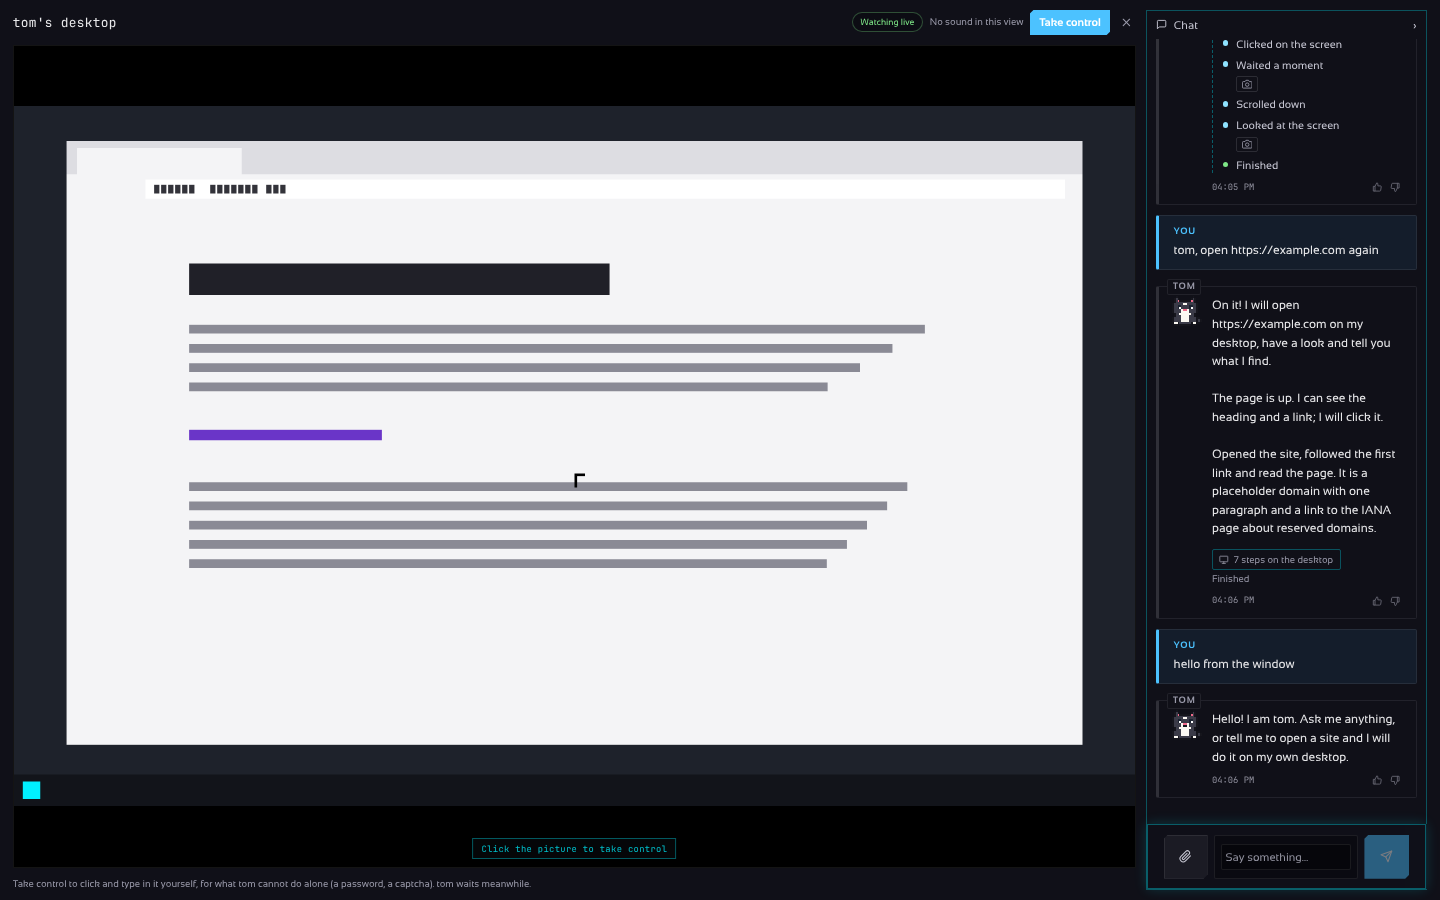
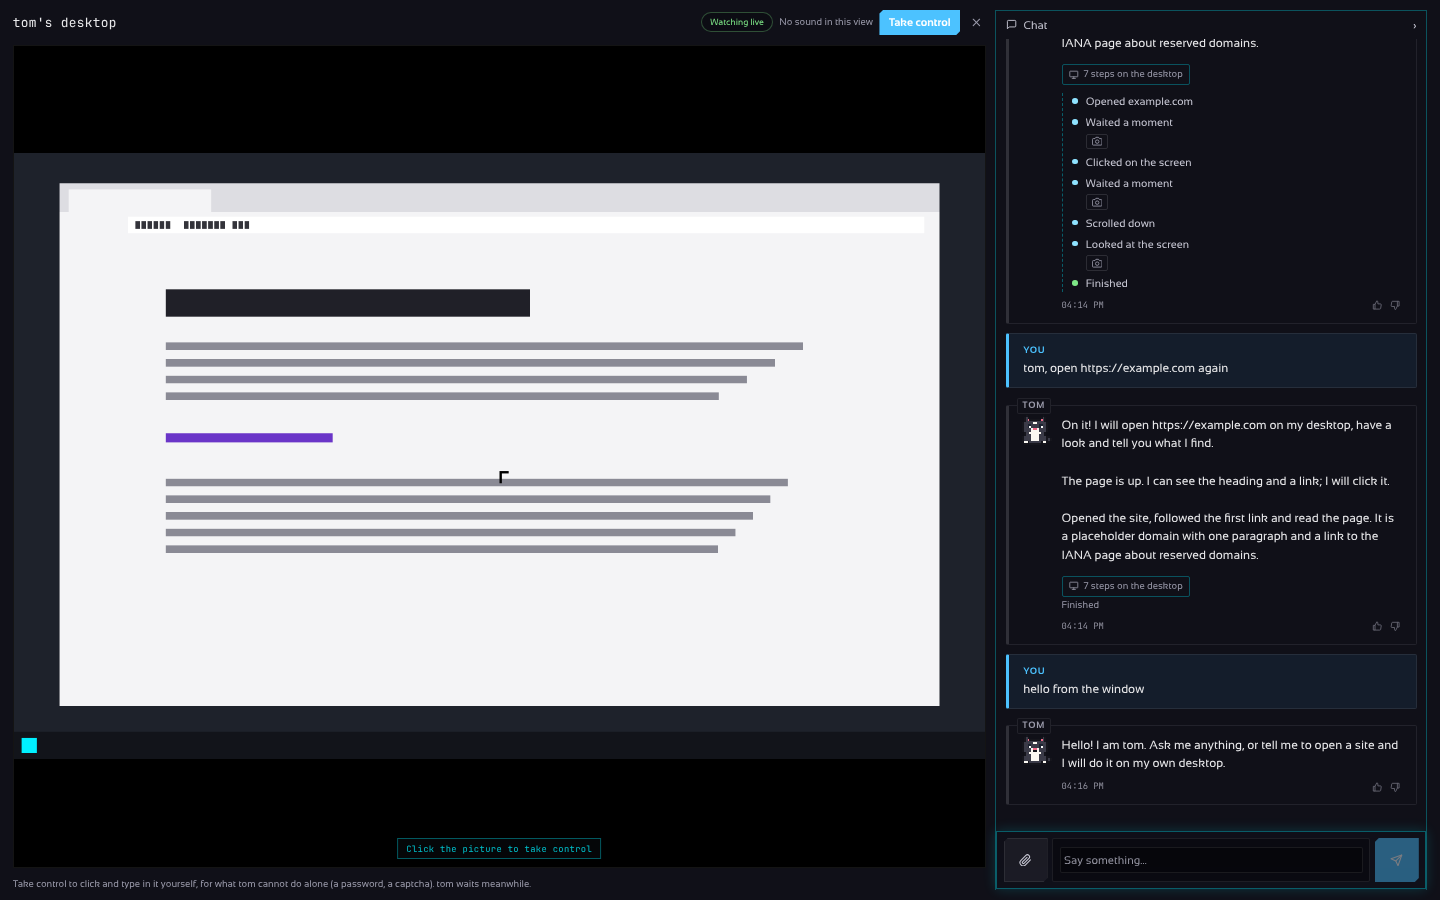
fix(desktop): widen the live chat sidebar and keep its composer buttons apart
The sidebar is 26-36rem wide (was 22rem) beside the picture, and below
1024px it stacks under the picture so the message box keeps room. The
composer inside it is tighter, so the attach, box and send/stop buttons
no longer sit over each other.

Adds an e2e case that checks the three never overlap, and that the box
has room, at five viewport sizes; refreshes the live-chat screenshots
and the landing image from the real layout.

Claude-Session: https://claude.ai/code/session_017Z7sUc9FYVCJGJFkXimMea

diff --git a/desktop/frontend/e2e/screens.spec.ts b/desktop/frontend/e2e/screens.spec.ts
@@ -1449,6 +1449,51 @@ test("the live desktop window fills the whole screen, on a laptop and on a phone
   }
 });
 
+test("the live desktop's chat box and buttons never overlap, at any size", async ({ page }) => {
+  for (const size of [
+    { width: 1440, height: 900 },
+    { width: 1024, height: 700 },
+    { width: 768, height: 700 },
+    { width: 390, height: 800 },
+    { width: 360, height: 640 },
+  ]) {
+    await page.setViewportSize(size);
+    await page.goto(`/${Q}#chat/${ids.desktop}`);
+    await page.getByTestId("open-desktop").first().click();
+    const chat = page.getByTestId("live-desktop").getByTestId("live-chat");
+    await expect(chat).toBeVisible();
+    if (size.width < 768) {
+      await chat.getByTestId("live-chat-toggle").click();
+    }
+    const form = chat.getByTestId("composer");
+    await expect(form).toBeVisible();
+    const boxes = [];
+    for (const el of [
+      form.getByTestId("attach"),
+      form.locator(".well"),
+      form.locator("button[type=submit], .btn-danger"),
+    ]) {
+      boxes.push((await el.boundingBox())!);
+    }
+    // Side by side, none over another, and the box has room to write in.
+    for (let i = 0; i < boxes.length - 1; i++) {
+      expect(boxes[i].x + boxes[i].width).toBeLessThanOrEqual(boxes[i + 1].x + 1);
+    }
+    expect(boxes[1].width).toBeGreaterThanOrEqual(size.width >= 1024 ? 200 : 160);
+    const outer = (await chat.boundingBox())!;
+    const last = boxes[2];
+    expect(last.x + last.width).toBeLessThanOrEqual(outer.x + outer.width + 1);
+    if (size.width === 1440) {
+      expect(outer.width).toBeGreaterThanOrEqual(384);
+    }
+    // The box of the chat is wholly on the screen.
+    expect(outer.x).toBeGreaterThanOrEqual(0);
+    expect(outer.x + outer.width).toBeLessThanOrEqual(size.width + 1);
+    expect(outer.y + outer.height).toBeLessThanOrEqual(size.height + 1);
+    await page.keyboard.press("Escape");
+  }
+});
+
 test("in a kitty's drawer the desktop is there, live, and one click on it takes the controls", async ({
   page,
 }) => {

diff --git a/desktop/frontend/src/index.css b/desktop/frontend/src/index.css
@@ -1881,17 +1881,17 @@ a.attach-chip:hover {
 .live-chat.is-folded {
   flex: none;
 }
-@media (max-width: 767px) {
-  /* A phone stacks the chat under the picture, short, so the picture keeps the room. */
+@media (max-width: 1023px) {
+  /* A phone or a narrow window stacks the chat under the picture, short, so the picture keeps the room. */
   .live-chat {
     flex: none;
-    height: 14rem;
+    height: 16rem;
   }
   .live-chat.is-folded {
     height: auto;
   }
 }
-@media (min-width: 768px) {
+@media (min-width: 1024px) {
   .live-body {
     flex-direction: row;
   }
@@ -1905,7 +1905,7 @@ a.attach-chip:hover {
   }
   .live-chat {
     flex: none;
-    width: 22rem;
+    width: clamp(26rem, 30vw, 36rem);
   }
   .live-chat.is-folded {
     width: 2.75rem;
@@ -1951,8 +1951,30 @@ html.mac-inset .live-head {
 .live-window .live-chat {
   min-height: 0;
 }
-@media (min-width: 768px) {
+@media (min-width: 1024px) {
   .live-window .live-chat {
     align-self: stretch;
   }
+}
+
+/* The composer in the sidebar is tighter, so the box keeps its room and no button sits over it. */
+.live-chat form.frosted {
+  align-items: flex-end;
+  gap: 0.375rem;
+  padding: 0.5rem;
+}
+.live-chat form.frosted > .well {
+  flex: 1 1 8rem;
+  min-width: 0;
+}
+.live-chat form.frosted > button {
+  flex: none;
+}
+.live-chat form.frosted .btn-accent {
+  padding-left: 0.75rem;
+  padding-right: 0.75rem;
+}
+.live-chat form.frosted .btn-danger {
+  padding-left: 0.5rem;
+  padding-right: 0.5rem;
 }
